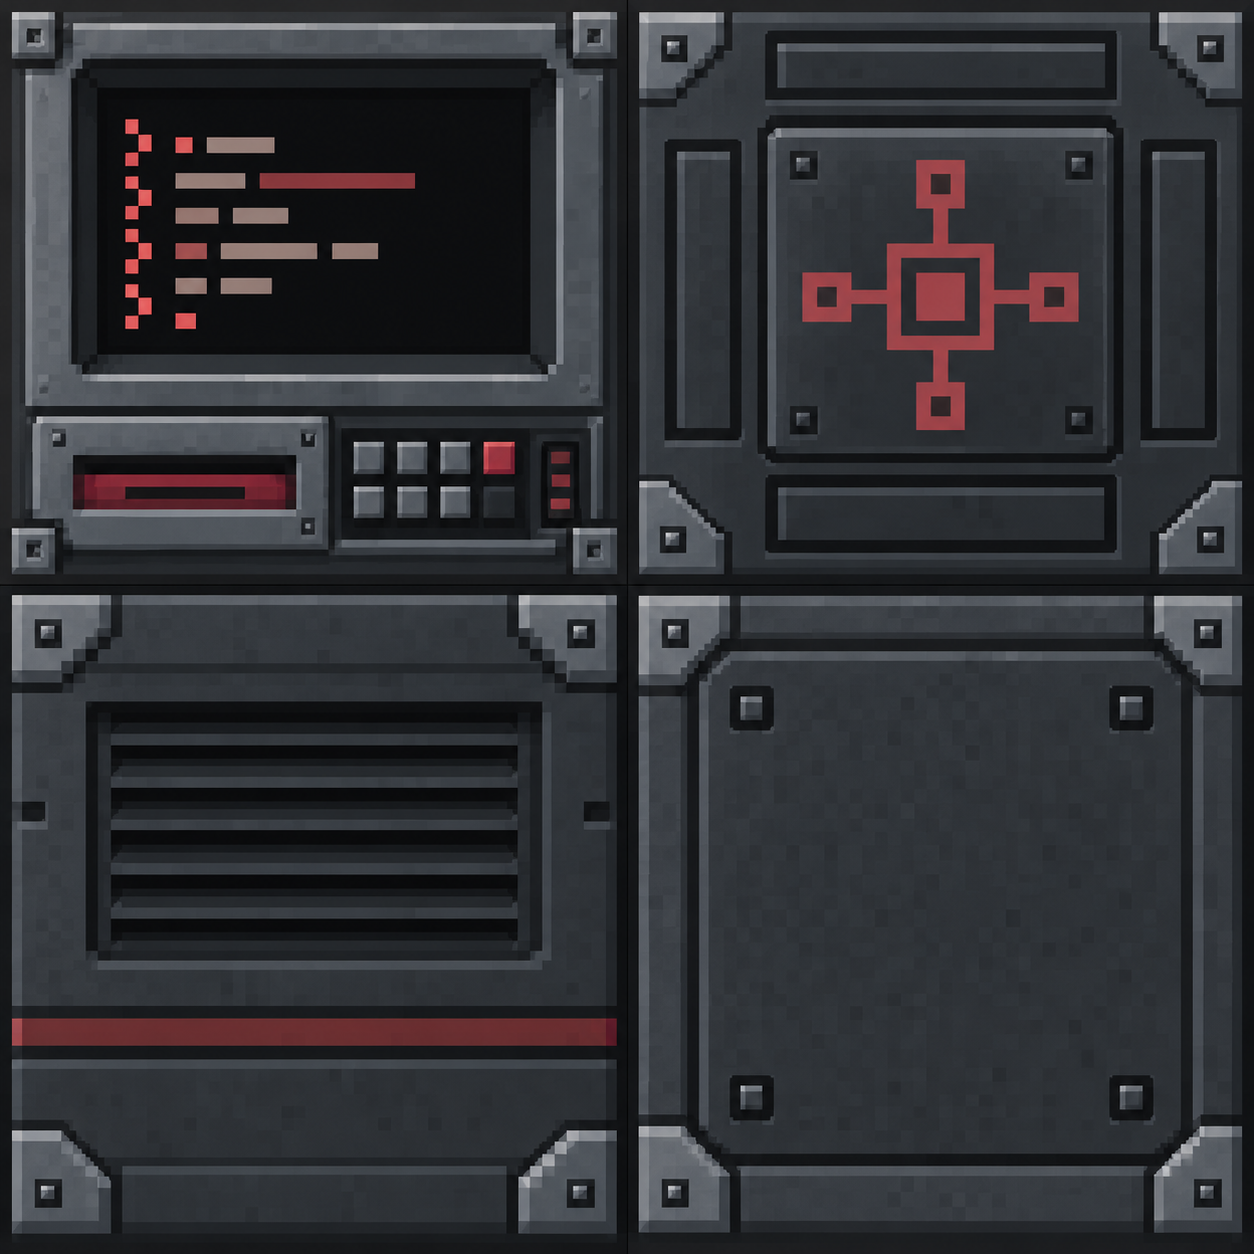
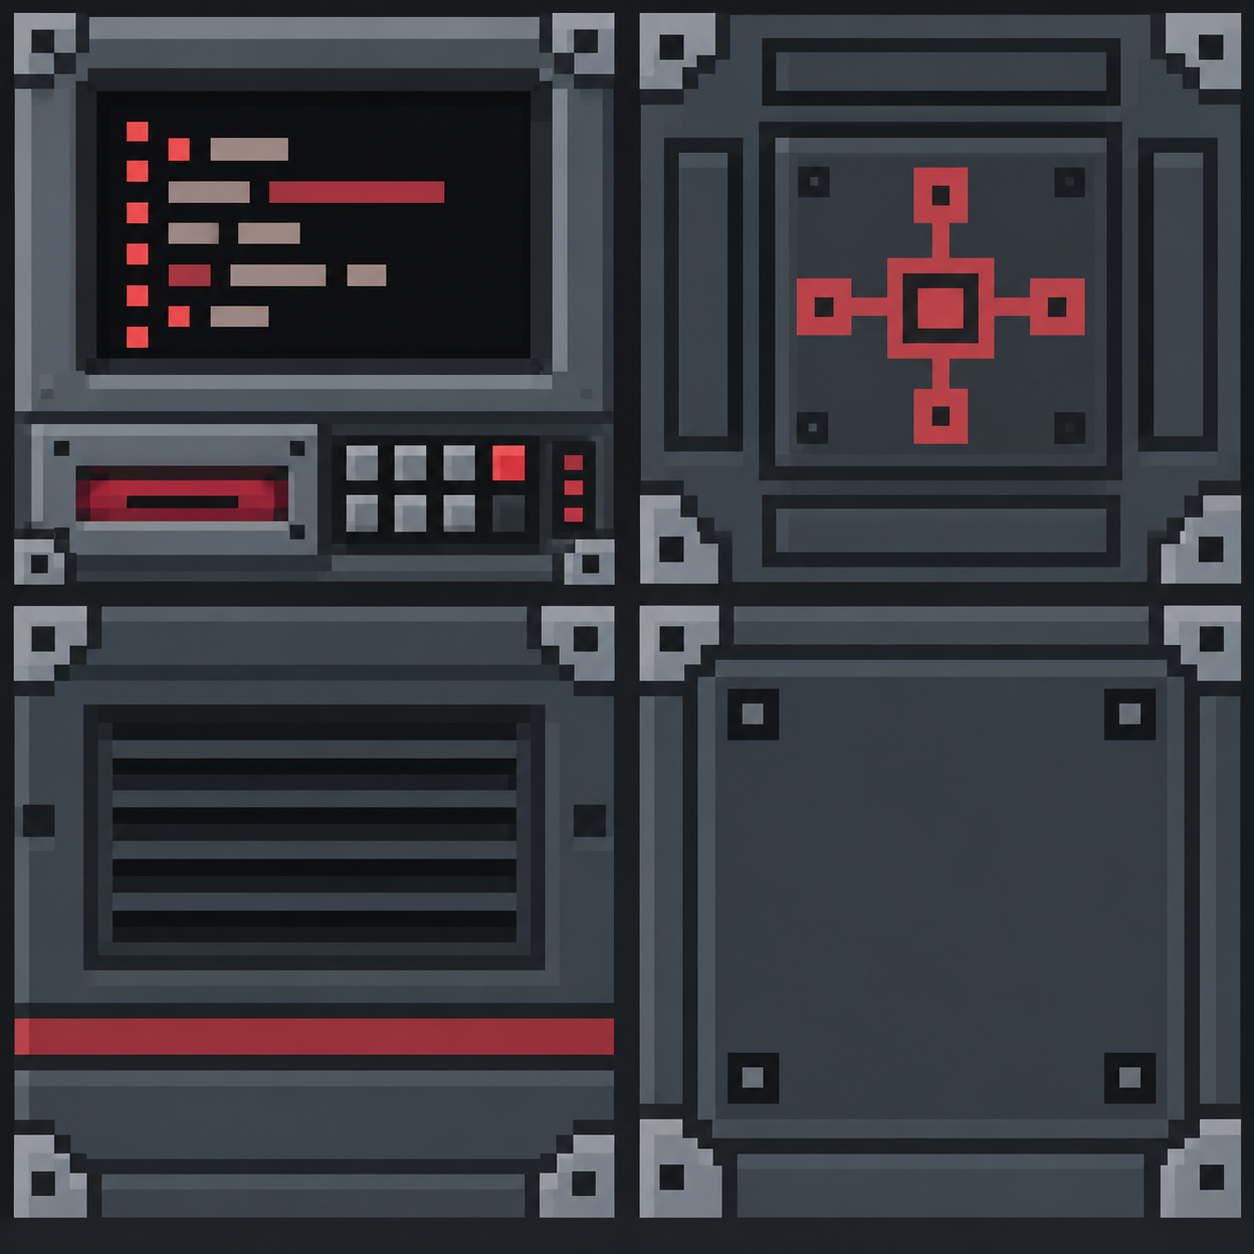
Use 16x16 Programming Station block textures

diff --git a/docs/art/PROGRAMMING_STATION.md b/docs/art/PROGRAMMING_STATION.md
@@ -1,17 +1,18 @@
 # Programming Station placeholder artwork
 
-Four opaque 32x32 PNG block textures provide a dark gunmetal workstation with red
+Four opaque 16x16 PNG block textures provide a dark gunmetal workstation with red
 accents, a recessed code display, disk slot, ventilated casing and maintenance
 plate. The front faces the placing player; existing unrotated stations use the
 south face. This changes appearance only, not project storage or execution.
 
 Source: [generated atlas](programming-station-atlas.png). Generated with the
-built-in image-generation tool. The atlas was split into four faces and sampled
-with nearest-neighbor pixel selection to package it at Minecraft texture size.
+built-in image-generation tool. The atlas was split into four faces and reduced
+with filtered sampling to retain small details at 16x16. The enlarged preview
+uses nearest-neighbor scaling; runtime faces are genuine 16x16 PNGs.
 
 Runtime assets are in
 `src/main/resources/assets/superfactorymanager/textures/blocks/programming_station_*.png`.
 
 ## Generation prompt
 
-Create a production texture atlas for one Minecraft 1.7.10 mod block called the SFM Programming Station. This is actual flat block-face pixel artwork, NOT a rendered cube or concept sheet. Output a square image filled edge to edge by exactly four equally sized square texture tiles in a precise 2 by 2 grid, NO gaps, NO labels, NO margins. Top-left = FRONT: a dark recessed terminal screen in the upper half with a few simple red/pale amber code glyph pixels and a thick gray steel bezel; lower half has a slim red disk imprint slot and a tiny keypad/control strip. Top-right = TOP: charcoal industrial workstation panel, orderly inset plates, a central red SFM-like geometric circuit motif and subtle screws in corners. Bottom-left = SIDE/BACK: matching dark gunmetal casing with a recessed ventilation grille, a slim dark red accent stripe and steel corner brackets. Bottom-right = BOTTOM: matching sealed dark steel maintenance plate with four recessed corner screws. The 4 tiles share the exact same brushed gunmetal gray frame, nearly black recesses, desaturated red accents, a little warm gray edge light. Palette roughly #171a1f #25292f #383e46 #626a73 #8e434b #b35b5f; no blue or neon cyan. Premium polished industrial Minecraft pixel-art aesthetic, crisp big square pixels, carefully designed relief from one-pixel highlights and shadows at upper-left, strongly readable small icons, restrained contrast, no grime overload. Each tile must be drawn on an EXACT 32 by 32 logical pixel grid, enlarged with sharp nearest-neighbor square pixels. Align every logical pixel to that grid. No anti-aliasing, no gradients, no perspective, no photographic materials, no text, no logos, no drop shadows outside each tile. Complete opaque Minecraft block textures. Make the programming screen and disk slot distinguishable at tiny size.
+Use case: precise-object-edit. Edit target: the supplied SFM Programming Station 2x2 block texture atlas. Simplify the SAME four faces into EXACTLY 16 by 16 logical pixels EACH, enlarged as sharp square pixel art. Entire image must be 32 by 32 logical pixels enlarged, split into equal 2x2 tiles edge to edge without gaps, margins, labels or perspective. Top-left FRONT: charcoal steel frame, upper recessed black screen with just a few big red and pale gray code marks, bottom a red disk slot and small controls. Top-right TOP: matching steel panel with a simple red circuit cross in middle. Bottom-left SIDE: gray steel vents, red horizontal stripe below vents. Bottom-right BOTTOM: simple sealed steel plate and four screws. Preserve gunmetal gray/desaturated red palette and industrial inset panel style of input. Eliminate fine details that cannot survive 16x16. Every detail uses full integer pixels on the 16x16 grid; no antialiasing, gradients or noise. No words, logos, transparency, photorealism or rendered cube. Production Minecraft 1.7.10 textures.
